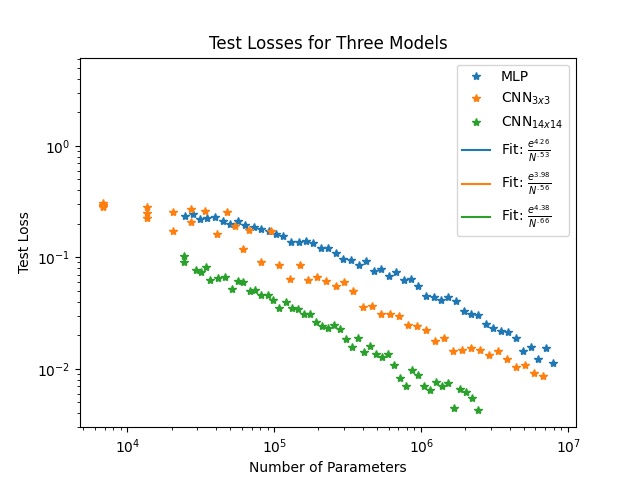
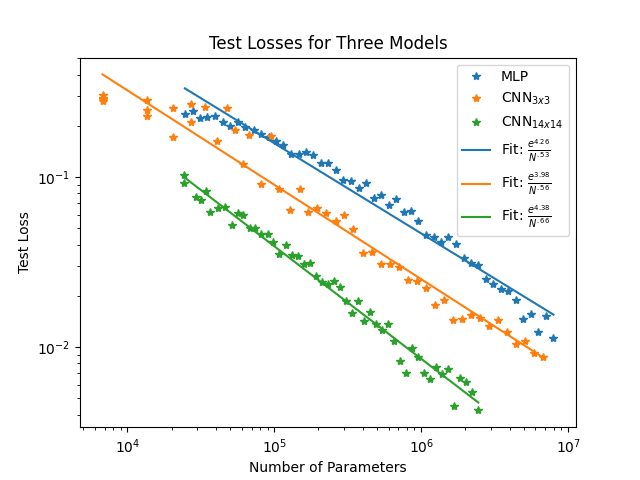
added ReLU-mapped and NTK eigenspectrum to scaling comparison

diff --git a/scaling_comparison.py b/scaling_comparison.py
@@ -125,15 +125,18 @@ plt.show()
 #%%
 #Now test loss fits
 
-CNN14fitx, CNN14fity = power_fit(CNN14_sizes_loaded, CNN14_losses_loaded)
-CNN3fitx, CNN3fity = power_fit(CNN3_sizes_loaded, CNN3_losses_loaded)
-MLPfitx, MLPfity = power_fit(MLP_sizes_loaded, MLP_losses_loaded)
+CNN14m, CNN14fc = power_fit(CNN14_sizes_loaded, CNN14_losses_loaded)
+CNN14fity = [np.exp(CNN14fc)*x**CNN14m for x in CNN14_sizes_loaded]
+CNN3m, CNN3c= power_fit(CNN3_sizes_loaded, CNN3_losses_loaded)
+CNN3fity = [np.exp(CNN3c)*x**CNN3m for x in CNN3_sizes_loaded]
+MLPm, MLPc = power_fit(MLP_sizes_loaded, MLP_losses_loaded)
+MLPfity = [np.exp(MLPc)*x**MLPm for x in MLP_sizes_loaded]
 plt.loglog(MLP_sizes_loaded, MLP_losses_loaded, "*")
 plt.loglog(CNN3_sizes_loaded, CNN3_losses_loaded, "*")
 plt.loglog(CNN14_sizes_loaded, CNN14_losses_loaded, "*")
-plt.loglog(MLPfitx, MLPfity, color = 'tab:blue')
-plt.loglog(CNN3fitx, CNN3fity, color = 'tab:orange')
-plt.loglog(CNN14fitx, CNN14fity, color = 'tab:green')
+plt.loglog(MLP_sizes_loaded, MLPfity, color = 'tab:blue')
+plt.loglog(CNN3_sizes_loaded, CNN3fity, color = 'tab:orange')
+plt.loglog(CNN14_sizes_loaded, CNN14fity, color = 'tab:green')
 plt.xlabel("Number of Parameters")
 plt.ylabel("Test Loss")
 plt.legend(["MLP", "$\\text{CNN}_{3x3}$", "$\\text{CNN}_{14x14}$", "Fit: $\\frac{e^{4.26}}{N^{.53}} $", "Fit: $\\frac{e^{3.98}}{N^{.56}} $", "Fit: $\\frac{e^{4.38}}{N^{.66}} $"])
